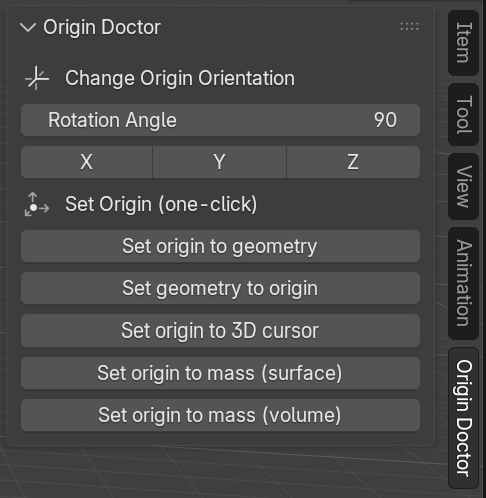
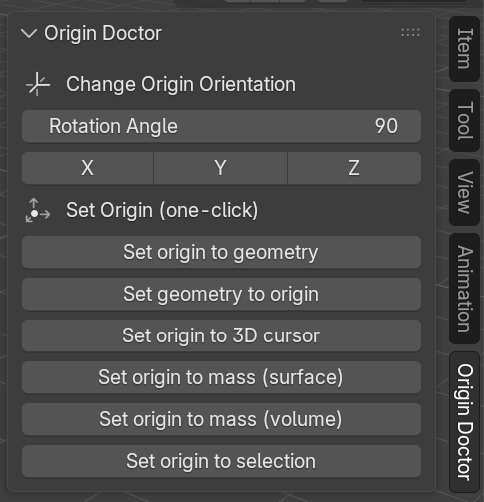
update README

diff --git a/README.md b/README.md
@@ -5,7 +5,7 @@ A blender add-on for quickly manipulating object origins
 Download the .zip file from release and install from disk in Blender under **Preferences** --> **Add-ons**
 
 ## Usage
-The Origin Doctor add-on is in the 3D viewport. Press `n` to show the sidebar panels. This add-on can be used in object mode and edit mode.
+The Origin Doctor add-on is in the 3D viewport. Press `n` to show the sidebar panels. This add-on can be used in object mode and edit mode. At least one object must be selected to use the operations. "Set origin to selection" requires being in edit mode.
 
 ## Features
 <img width="300" alt="image" src="/readme_images/origin-doctor.png" />